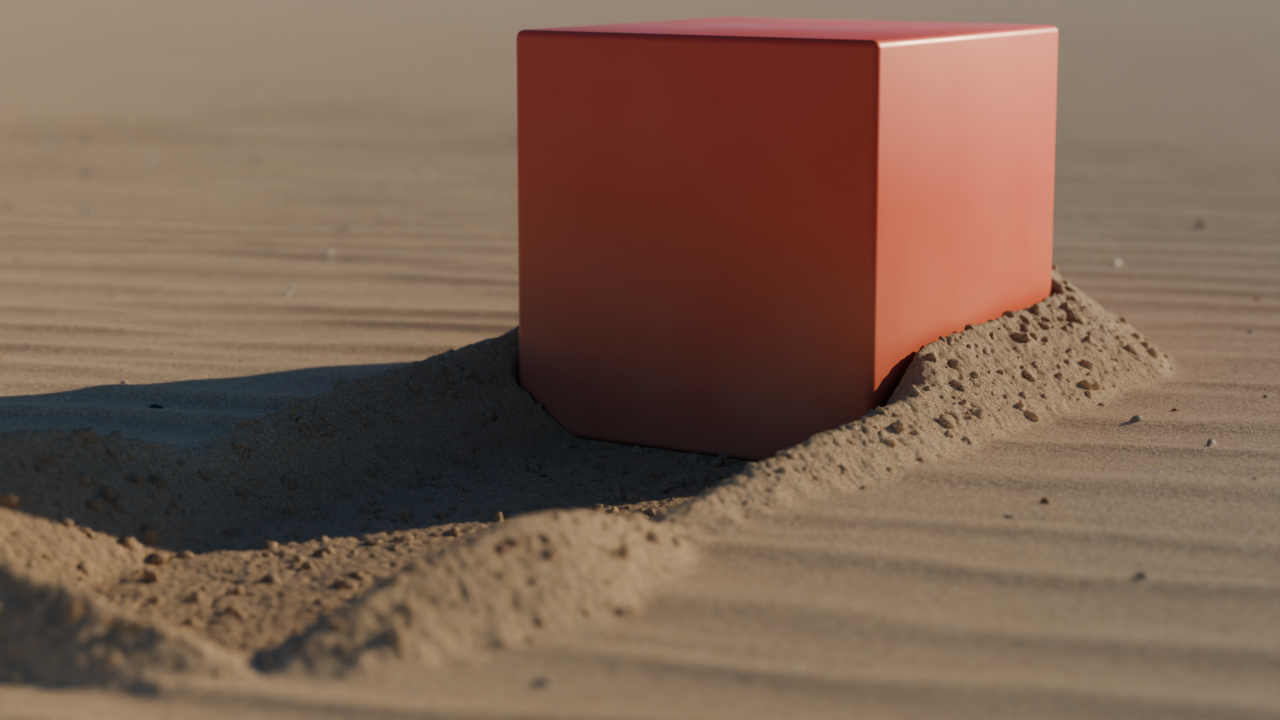
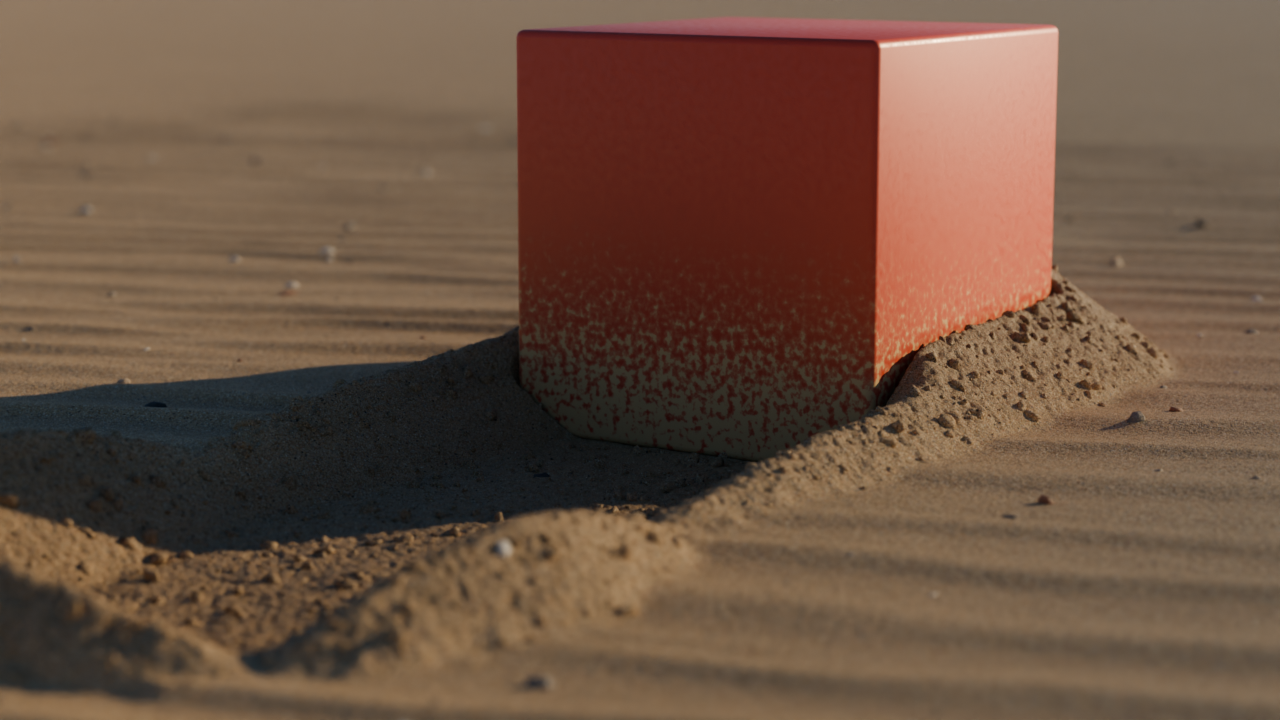
feat(sand): goldener, sichtbar koerniger Sand nach Referenz
Grobe Kornfraktion (1 mm) im Shader, waermere Palette, hoehere Rippel mit
weicherem Profil, weniger und groessere Steinchen. Hero-Szene: Sonne 18 Grad,
Sandstaub an der Box. Version 0.4.2

diff --git a/groundfx/core/materials/mat_sand.py b/groundfx/core/materials/mat_sand.py
@@ -45,11 +45,11 @@ GRAIN_SIZE = 0.0004   # metres, medium sand
 
 # Mineral palette (linear RGB) with cumulative thresholds on a per-grain id.
 PALETTE = (
-    (0.00, (0.52, 0.38, 0.21)),   # frosted quartz, warm
-    (0.30, (0.64, 0.50, 0.31)),   # clear quartz over light
-    (0.52, (0.76, 0.68, 0.55)),   # white quartz
-    (0.64, (0.62, 0.38, 0.24)),   # feldspar, pinkish
-    (0.76, (0.45, 0.26, 0.11)),   # iron-stained
+    (0.00, (0.50, 0.35, 0.18)),   # frosted quartz, warm
+    (0.30, (0.62, 0.46, 0.26)),   # clear quartz over light
+    (0.52, (0.74, 0.64, 0.48)),   # white quartz
+    (0.64, (0.60, 0.35, 0.20)),   # feldspar, pinkish
+    (0.76, (0.43, 0.24, 0.09)),   # iron-stained
     (0.88, (0.33, 0.29, 0.24)),   # grey lithic
     (0.95, (0.07, 0.065, 0.06)),  # dark lithic / magnetite
 )
@@ -136,6 +136,18 @@ def build(tree, ctrl, *, grain_size=GRAIN_SIZE) -> None:
     grain_id = g.mix(g.out(v1, "Color").x, g.out(v2, "Color").x, top2)
     grain_r2 = g.mix(g.out(v1, "Color").y, g.out(v2, "Color").y, top2)
 
+    # Coarse fraction: a share of grains is several times larger. From a
+    # few metres these are what the eye reads as "grainy"; the fine grains
+    # alone average out to a flat tone.
+    vc = g.node("ShaderNodeTexVoronoi",
+                {"Vector": P + (0.91, 0.27, 0.55), "Scale": inv * 0.4,
+                 "Randomness": 1.0},
+                feature="F1", voronoi_dimensions="3D")
+    coarse_dome = dome(vc, 0.55)
+    coarse_id = g.out(vc, "Color").x
+    is_coarse = g.math("MULTIPLY", g.out(vc, "Color").z.gt(0.68),
+                       coarse_dome.gt(0.3))
+
     # Sorting: troughs hold more of the heavy dark grains. Pushing the id up
     # the palette makes more grains land in the lithic/magnetite bins.
     sort_patch = g.out(g.node("ShaderNodeTexNoise",
@@ -146,6 +158,11 @@ def build(tree, ctrl, *, grain_size=GRAIN_SIZE) -> None:
     cr.interpolation = "CONSTANT"
     set_ramp(cr, PALETTE)
     albedo = g.out(ramp, "Color")
+    ramp_c = g.node("ShaderNodeValToRGB", {0: coarse_id})
+    ramp_c.color_ramp.interpolation = "CONSTANT"
+    set_ramp(ramp_c.color_ramp, PALETTE)
+    albedo = g.mix(albedo, g.out(ramp_c, "Color") * (0.55 + coarse_dome * 0.6),
+                   is_coarse)
 
     # per-grain brightness jitter, clumps, patches, long streaks down the wind
     jitter = 0.85 + grain_r2 * 0.3
@@ -166,6 +183,9 @@ def build(tree, ctrl, *, grain_size=GRAIN_SIZE) -> None:
     # gaps between grains sit in shadow; packed sand closes the gaps
     relief = height * (1.0 - comp * 0.6)
     cavity = 0.55 + 0.45 * (relief.pow(0.5) + comp * 0.6).min(1.0)
+    # shadowed pits between the coarse grains
+    pit = (1.0 - coarse_dome * 1.6).clamp(0.0, 1.0) * g.out(vc, "Color").z.gt(0.68)
+    cavity = cavity * (1.0 - pit * 0.22 * (1.0 - comp))
     dry = albedo * (tone * cavity * (1.0 - comp * 0.06))
     damp_mul = g.mix(g.vec(1.0, 1.0, 1.0), g.vec(*DAMP_TINT), moist)
     color = dry * base * damp_mul
@@ -211,10 +231,14 @@ def build(tree, ctrl, *, grain_size=GRAIN_SIZE) -> None:
                      {"Strength": 0.6, "Distance": 0.0006,
                       "Height": scrape * comp * f_len.min(1.0) * detail,
                       "Normal": g.out(crumbs, "Normal")})
+    bump_coarse = g.node("ShaderNodeBump",
+                         {"Strength": 1.0, "Distance": grain_size * 1.1,
+                          "Height": coarse_dome * is_coarse * (1.0 - comp * 0.7) * detail,
+                          "Normal": g.out(scrapes, "Normal")})
     bump_fine = g.node("ShaderNodeBump",
                        {"Strength": 1.0, "Distance": grain_size * 0.45,
                         "Height": relief * detail,
-                        "Normal": g.out(scrapes, "Normal")})
+                        "Normal": g.out(bump_coarse, "Normal")})
 
     inputs = {"Base Color": color, "Roughness": roughness, "IOR": 1.54,
               "Specular IOR Level": 0.3,

diff --git a/dev/hero_scene.py b/dev/hero_scene.py
@@ -38,7 +38,7 @@ def _args():
     p.add_argument("--save", default="")
     p.add_argument("--grains", action="store_true")
     p.add_argument("--no-surround", action="store_true")
-    p.add_argument("--sun", default="22,120", help="elevation,rotation deg")
+    p.add_argument("--sun", default="18,120", help="elevation,rotation deg")
     p.add_argument("--exposure", type=float, default=0.0)
     p.add_argument("--noderender", action="store_true",
                    help="build + simulate only, skip rendering")
@@ -97,7 +97,7 @@ def setup_world(scene, sun_elev_deg=22.0, sun_rot_deg=120.0, strength=0.06,
     scene.view_settings.exposure = exposure
 
 
-def make_box(size=0.2, mud=False):
+def make_box(size=0.2, mud=False, dust=False):
     import bmesh
     me = bpy.data.meshes.new("HeroBox")
     bm = bmesh.new()
@@ -145,6 +145,19 @@ def make_box(size=0.2, mud=False):
     L(mix.outputs[2], bsdf.inputs["Base Color"])
     L(n1.outputs[0], rr.inputs["Value"])
     L(rr.outputs[0], bsdf.inputs["Roughness"])
+    if dust:
+        # grains clinging to the lower flanks: scene dressing only
+        n1.inputs["Scale"].default_value = 260.0
+        n1.inputs["Detail"].default_value = 2.0
+        ramp.inputs["From Max"].default_value = 0.08
+        ramp.inputs["To Min"].default_value = 2.3
+        mix.inputs[7].default_value = (0.46, 0.33, 0.17, 1.0)
+        pw = nt.nodes.new("ShaderNodeMath")
+        pw.operation = "POWER"
+        pw.inputs[1].default_value = 6.0
+        pw.use_clamp = True
+        L(mul.outputs[0], pw.inputs[0])
+        L(pw.outputs[0], mix.inputs[0])
     if mud:
         # splatter: scene dressing only, the solver does not coat flanks yet
         n1.inputs["Scale"].default_value = 60.0
@@ -210,7 +223,7 @@ def setup_camera(scene, kind, target):
 
 
 def build(element="SAND", quality="HIGH", size=1.2, cam="close", grains=False,
-          surround=True, sun=(22.0, 120.0), exposure=0.0):
+          surround=True, sun=(18.0, 120.0), exposure=0.0):
     import groundfx
     try:
         groundfx.unregister()
@@ -231,7 +244,7 @@ def build(element="SAND", quality="HIGH", size=1.2, cam="close", grains=False,
     domain.groundfx.surround = surround
 
     h = domain.groundfx.material_height
-    box = make_box(0.2, mud=element == "MUD")
+    box = make_box(0.2, mud=element == "MUD", dust=element == "SAND")
     scene.collection.objects.link(box)
     coll = ensure_collider_collection(bpy.context, domain)
     coll.objects.link(box)

diff --git a/groundfx/core/nodegroups/ng_surface.py b/groundfx/core/nodegroups/ng_surface.py
@@ -321,7 +321,7 @@ def build(name: str = NG_SURFACE, element: str = ELEM_SAND):
     keep = (g.attr(ATTR_GEO).gt(0.5) * (1.0 - g.attr(_ATTR_LOOSE) * 0.7)
             * (1.0 - g.attr(ATTR_COMP).clamp(0.0, 1.0)))
     pebbles = _lumps(g, surface, I(IN_PEBBLES) * keep, I(IN_MATERIAL),
-                     seed=40, r_min=0.0008, r_max=0.006, power=5.0,
+                     seed=40, r_min=0.001, r_max=0.008, power=3.5,
                      sink=0.45, flat=0.6, rough=1.2, pebble=True)
     out = b.add("GeometryNodeJoinGeometry")
     if mud:

diff --git a/groundfx/core/surface_fn.py b/groundfx/core/surface_fn.py
@@ -55,9 +55,9 @@ def ripple_height(g, P, wavelength, angle):
     phase = (uk + warp) * _TAU
 
     def profile(t):
-        p = g.math("SINE", t + g.math("SINE", t) * 0.6)
+        p = g.math("SINE", t + g.math("SINE", t) * 0.4)
         # narrow crests over wide, flat troughs (extremes stay at +-1)
-        return p - (1.0 - p * p) * 0.3
+        return p - (1.0 - p * p) * 0.2
 
     patch = _noise(g, g.vec(uk * 0.22, vk * 0.07, 19.3), detail=1.0)
     blend = smoothstep(patch * 9.0 + 0.5)

diff --git a/groundfx/data/properties.py b/groundfx/data/properties.py
@@ -303,7 +303,7 @@ class GroundFXObjectSettings(bpy.types.PropertyGroup):
         description="Relief of material the simulation has disturbed")
 
     pebbles: bpy.props.FloatProperty(
-        name="Pebbles", default=220.0, min=0.0, max=20000.0,
+        name="Pebbles", default=140.0, min=0.0, max=20000.0,
         update=_sync_surface,
         description="Small stones and shell fragments per square metre")
 

diff --git a/groundfx/core/materials/mat_builder.py b/groundfx/core/materials/mat_builder.py
@@ -29,7 +29,7 @@ from ..constants import (
 _MAT_NAME = {ELEM_SAND: MAT_SAND, ELEM_SNOW: MAT_SNOW, ELEM_MUD: MAT_MUD}
 
 # Surface relief defaults shared by the surface stage and the shader.
-RIPPLE_HEIGHT = 0.004
+RIPPLE_HEIGHT = 0.005
 RIPPLE_LENGTH = 0.07
 WIND_ANGLE = math.radians(20.0)
 

diff --git a/docs/STATUS.md b/docs/STATUS.md
@@ -1,6 +1,6 @@
 # GroundFX - Projektstatus
 
-**Letzte Aktualisierung:** 2026-11-12
+**Letzte Aktualisierung:** 2026-11-13
 **Tests:** 205/205 grün (Blender 5.2.0 LTS, headless)
 
 Wiedereinstieg: diese Datei, dann `../CONTEXT.md` (Architektur, Fallstricke)
@@ -23,7 +23,11 @@ Belege Sand Gen 3: `g3_sand_hero.png`, `g3_sand_wide.png`,
 `g3_sand_close.png`, `g3_sand_macro.png` (Cycles, 160 Samples, Quality High).
 Belege Schlamm Gen 3: `g3_mud_hero.png`, `g3_mud_wide.png`,
 `g3_mud_close.png`.
-Test-ZIP: `dist/groundfx-0.4.0.zip` (lokal, nicht im Repo).
+Test-ZIP: `dist/groundfx-0.4.2.zip` (lokal, nicht im Repo).
+
+Beide Elemente wurden am 2026-11-13 nach Referenzbildern von ed3n
+nachgezogen: Schlamm klumpig und aufgewühlt mit milchigen Pfützen, Sand
+goldener, sichtbar körnig, mit flacherem Streiflicht.
 
 ## Bekannte Schwächen
 
@@ -32,6 +36,10 @@ Test-ZIP: `dist/groundfx-0.4.0.zip` (lokal, nicht im Repo).
   rechnerisch, die Form ist ein Plateau statt eines Grats.
 - Im Viewport ungeprüft, alle Belege sind headless gerendert.
 - Schnee hat noch keine Surface-Stufe.
+- Die Spur ist bei beiden Elementen rechteckig mit flachem Plateau. Die
+  Referenzen zeigen eine runde Mulde mit weichem Wall.
+- Staub und Spritzer an der Box sind Szenen-Dekoration in
+  `dev/hero_scene.py`, kein Addon-Feature. Seitliches Haften fehlt weiter.
 - Schlamm: Das Wasser ist ein fester Pegel. Es wird nicht verdrängt, schwappt
   nicht und spritzt nicht. Die Spur hat harte, rechteckige Ufer.
 

diff --git a/CONTEXT.md b/CONTEXT.md
@@ -83,6 +83,24 @@ Relief. Der Clearcoat ist über einen Noise-Schwellwert fleckig, sonst wirkt
 nasser Schlamm wie Plastik. Feuchter Boden muss dunkel sein (linear rund
 0.08/0.05/0.03), sonst liest er sich in der Sonne als Sand.
 
+## Zielbild (Referenzen von ed3n, 2026-11-13)
+
+- Schlamm: aufgewühlter Acker-Schlamm, klumpig, überall kleine nasse
+  Glanzpunkte, milchig-braune Pfützen in den Senken, dicker faltiger Wulst
+  um eine runde Spur, Spritzer am Objekt, einzelne Halme.
+- Sand: goldbraun, aus der Totale sichtbar körnig, flaches warmes Streiflicht
+  mit weichen Rippelschatten, wenige größere Steinchen, Sand haftet unten
+  am Objekt, Spur als runde Mulde mit weichem Wall.
+
+Daraus gelernt:
+
+- Körnigkeit aus der Distanz braucht eine grobe Kornfraktion (1 mm) im
+  Shader. Zu groß (2 mm) ergibt im Makro flache Farbflecken.
+- Schlamm-Klumpen: Billowed Noise mit wenig Detail. Mit viel Detail wird
+  daraus scharfkantiges Geröll.
+- Der Wasserstand ist sehr empfindlich: zwischen -7 mm (fast keine Pfützen)
+  und 0 mm (halbe Fläche unter Wasser) liegen nur 7 mm. Standard -4 mm.
+
 ## Verdrängung (Solver, seit 2026-11-12)
 
 Der Ring, auf den verdrängtes Volumen fällt, hat eine Reichweite in Metern
